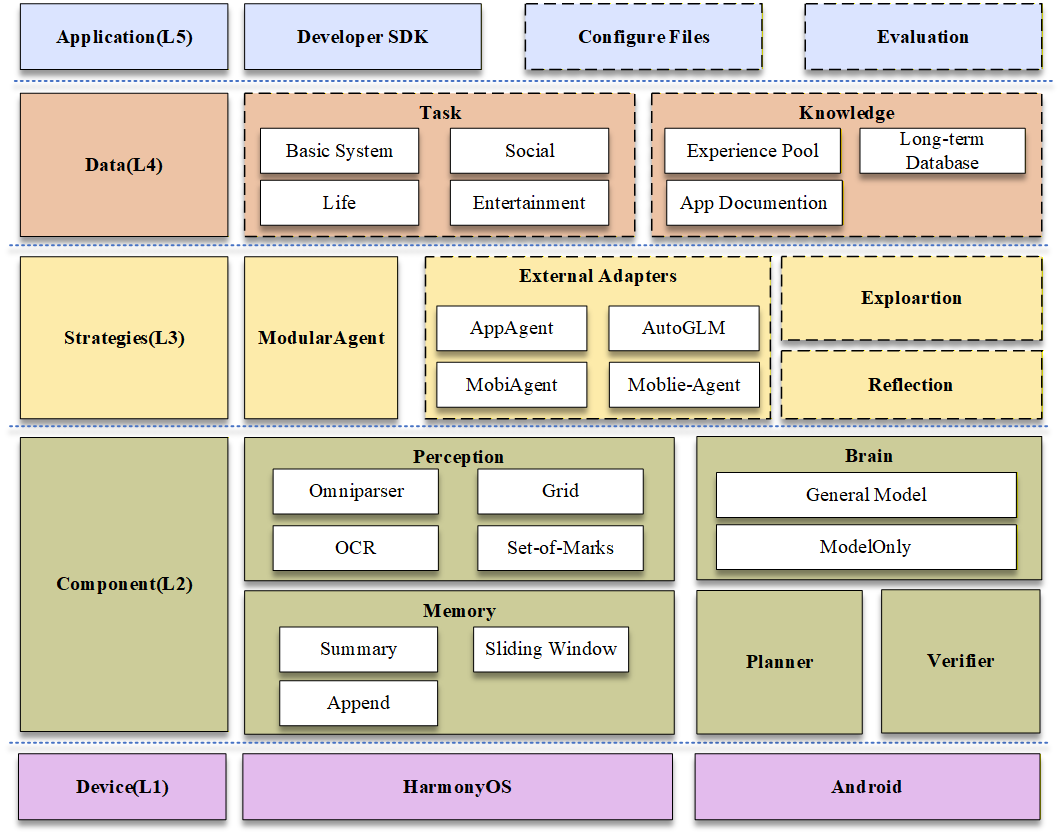
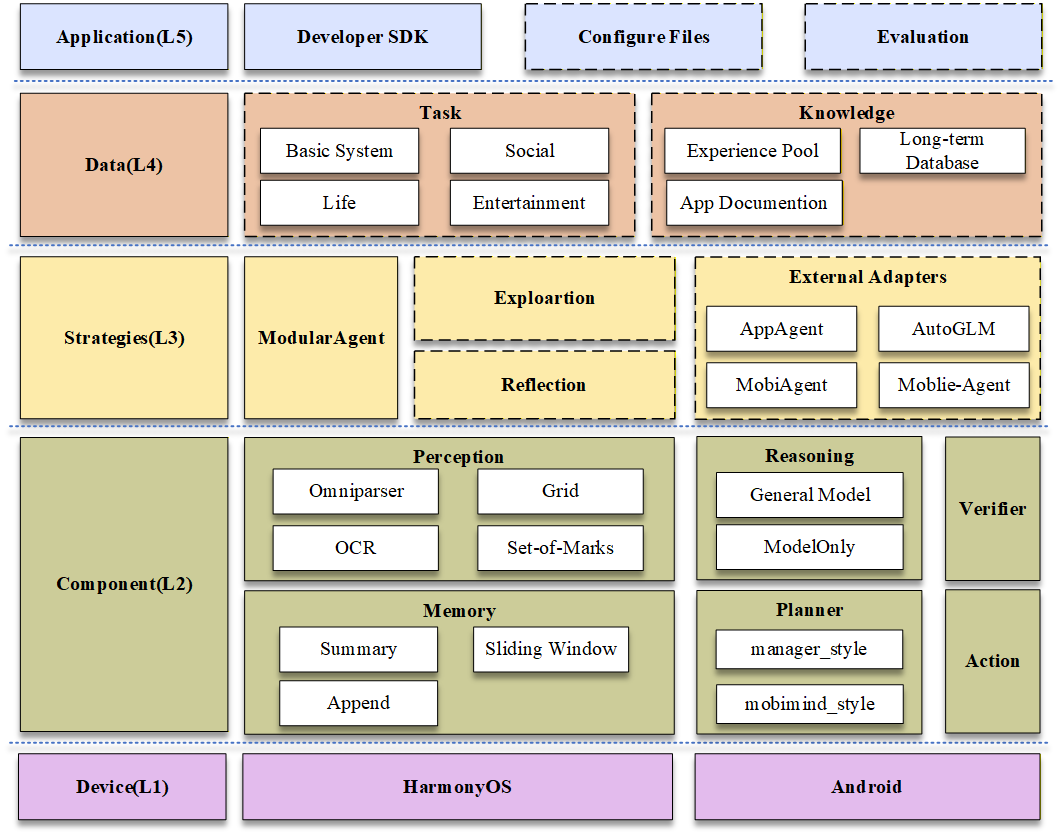
Update README.md

Changed region(s): [[0.3725, 0.2802, 0.9934, 0.903]]

diff --git a/README.md b/README.md
@@ -1,64 +1,63 @@
 # 知行
-随着多模态大模型（MLLM）的爆发，Mobile Agent 领域涌现了大量优秀工作。然而，现有的研究往往面临**开发碎片化**、**组件强耦合**以及**生态割裂**的三大挑战。为了复现一个 SOTA 算法，研究者往往需要重写大量底层代码；为了对比不同模型的效果，开发者缺乏一个统一的实验环境。
-
-**知行 (ZhiXing)** 旨在为此提供一个工业级的基础设施。我们不定义“什么是最好的 Agent”，我们定义 **“Agent 该如何被科学地构建与评测”**。
+知行是一个配置驱动的模块化 Mobile Agent 开发框架，旨在帮助研究者快速构建、测试和对比不同的 Mobile Agent 架构。它提供了一套涵盖感知、规划与执行的模块化组件库，并内置了开箱即用的预设配置，支持研究者在 Android 和 HarmonyOS 双端快速实例化多种架构风格的智能体。借助 UniMobile 及其提供的丰富资源，您可以在几分钟内轻松搭建并验证一个 Mobile Agent 原型，将您的算法创意迅速转化为真机上的可执行动作。
 
 > 我们的愿景：从一个灵活的开发框架出发，知行将逐步演进为涵盖 **自动化数据生成 (Data Generation)**、**标准化全链路评测 (Standardized Evaluation)** 的全栈智能体科研平台。
 
 
 
-## 🔥 核心特性
+## 🏗 架构与组件
 
-我们专注于提供最稳固的工程底座，让算法研究无后顾之忧。
+### 🌍 系统全景 (System Overview)
+
+知行采用五层分层架构，涵盖从底层设备接口到顶层应用配置的全栈能力。实线模块为 v0.1 已实装功能，虚线模块为规划中特性。
+
+![architecture](asset/architecture.png)
+
+*注：实线部分为 v0.1 已实装模块，虚线部分为 v1.0/v2.0 规划中模块。*
+
+### 🧠 设计原理 (Design Principles)
+
+参考 Agent 的定义，我们将我们将 Agent 建模为观察(Perception)+推理(Reasoning) + 记忆 (Memory) + 规划 (Planning) + 工具使用 (Action)四个部分，确保其具备类人的自主决策能力。除此之外，我们在组件部分还引入了独立的验证器 (Verifier)，将 Agent 从传统的“开环执行”升级为具备 自我修正 (Self-Correction) 能力的闭环系统。
+
+最终，移动端智能体被分为了5 个完全解耦的核心组件（对应架构图 L2 层），所有组件独立运行、各司其职、无强依赖关系。
+
+### ⚙ 运行机制
+
+智能体实例化后，将进入‘感知-推理-执行’的闭环运行。下图展示了组件间的数据流向与交互机制
+
+![run](asset/run.png)
+
+### 🧩 组件详解
+
+| 模块             | 职责与功能                                                   |
+| ---------------- | ------------------------------------------------------------ |
+| **👀 Perception** | 智能体的**眼睛**，完成移动端的多模态输入解析，唯一负责从手机端获取环境信息，是智能体与物理设备的唯一感知入口。 |
+| **🧠 Reasoning**  | 智能体的**决策中枢**，是整个智能体的核心模块，承接规划器的子任务序列，结合感知信息 + 记忆信息，输出每一步该执行什么具体操作的精准决策 |
+| **🗺 Planner**    | 智能体的**战略大脑**，可将用户的总目标拆解为可执行的、有序的、细粒度的子任务序列 |
+| **💾 Memory**     | 智能体的**完整记忆中枢**，一体化管理短期记忆 + 长期记忆双模式记忆能力，是智能体的状态存储核心 |
+| **🛡 Verifier**   | 智能体的**质检员**，用于校验上一步动作执行的结果是否正确、操作是否有效、是否达成预期目标，是智能体的自检核心 |
+| **🦾 Action **    | 智能体的**手脚**，唯一负责将大脑输出的决策，转化为手机端的真实操作，是整个智能体的核心落地组件。 |
+
+
+
+## 🔥 核心特性
 
 ### 1. 真正的架构级解耦
 
 我们解决了微调模型与通用模型接口不统一的工程难题。
 
-- **Universal Brain & Planner**：通过独创的 **Preset (预设)** 机制，我们将 Prompt 模板、模型调用与结果解析器（Parser）动态绑定。
-- **Model-Agnostic**：框架不绑定任何特定模型。你可以在同一个架构下，自由混用 **GPT-4o**（通用推理）与本地微调的 **Small Language Model**，无需修改核心代码。
+- **Universal Reasoning & Planner**：通过独创的 **Preset (预设)** 机制，我们将 Prompt 模板、模型调用与结果解析器（Parser）动态绑定。
+- **Model-Agnostic**：框架不绑定任何特定模型。你可以在同一个架构下，自由混用 GPT-4o（通用推理）与本地微调的 Model，无需修改核心代码。
 
 ### 2.  极致的配置驱动
 
-- **零代码组装**：通过 YAML 文件即可定义 Agent 的全貌。想要对比 "OmniParser vs Grid" 的感知差异？只需修改配置文件中的一行参数。
-- **环境隔离**：支持针对不同设备、不同任务加载不同的配置模板，极大提升了实验管理的效率。
+将 Agent 的构建过程从“写代码”进化为“写配置”
 
+- **零代码组装 (Zero-Code Assembly)**：通过 YAML 文件即可定义 Agent 的全貌。非开发人员也能通过简单的配置，像搭积木一样快速构建专属 Agent。
 
+- **组件热切换 (Hot-Swappable Components)**：专为科研实验设计。想要对比 OmniParser vs Grid 的感知差异？只需修改配置文件中的一行参数，即可实现控制变量的对比实验。
 
-## 🏗 顶层架构
-
-UniMobile 采用五层分层架构设计，以支持最大的灵活性和扩展性。
-
-![architecture.png](asset/architecture.png)
-
-### 层级详解
-
-- **L5 Application**: 配置加载器、开发者 SDK、Evaluation 入口。
-- **L4 Data & Eval**: *(Research Preview)* 负责参数化数据的供给与评测标准的定义。
-- **L3 Strategies**: 智能体策略层，负责调度组件（如 ModularAgent, AppAgentAdapter）。
-- **L2 Components**: 核心组件库，包含 Perception, Brain, Memory, Planner。
-- **L1 Device**: 硬件抽象层，统一管理 Harmony 和 Android Device。
-
-*注：实线部分为 v0.1 已实装模块，虚线部分为 v1.0/v2.0 规划中模块。*
-
-
-
-## 🧩 组件菜单
-
-v0.1 版本已内置以下核心组件，支持自由组合：
-
-| 模块 (Module)  | 预设 / 模式 (Preset/Mode) | 说明                                                         |
-| :------------- | :------------------------ | :----------------------------------------------------------- |
-| **Brain**      | `general_vlm`             | **通用视觉模型**：适配 GPT-4V/Claude，支持图文理解与 JSON 动作输出。 |
-| **Planner**    | `manager_style`           | **思维链规划**：生成分步计划，适合复杂逻辑任务。             |
-|                | `mobimind_style`          | **结构化规划**：直接输出目标 App 与意图，适合明确指令。      |
-| **Perception** | `omniparser`              | **语义解析**：生成结构化的 UI 元素列表（文本+坐标）。        |
-|                | `grid`                    | **网格定位**：经典的通用兜底方案，不依赖元素识别。           |
-|                | `set_of_marks`            | **视觉打标**：使用检测模型给 UI 元素打上数字标签，大幅提高点击准确率。 |
-| **Memory**     | `sliding_window`          | **滑动窗口**：保留最近 N 步操作，平衡 Token 消耗。           |
-|                | `summary_memory`          | **摘要记忆**：周期性压缩历史记录，保留长程关键信息。         |
-
-
+  
 
 ## 🚀 快速开始
 
@@ -77,17 +76,11 @@ cd UniMobile
 pip install -r requirements.txt
 ```
 
-### 2. 部署感知服务
-
-UniMobile 的默认视觉感知依赖于 **OmniParser**。你需要先启动 OmniParser 的模型服务。访问 [OmniParser 官方仓库](https://github.com/microsoft/OmniParser)，按照要求部署模型。
-
-> 💡 **Tip**: 如果你不想部署庞大的模型，可以使用 set_of_marks 或 grid 进行轻量级体验。
-
-### 3. 连接设备
+### 2. 连接设备
 
 知行 支持 Android 和 Harmony 双平台。
 
-#### **连接 Android 设备**
+#### 连接 Android 设备
 
 1. 开启手机的 **“开发者选项”** -> **“USB 调试”**。
 
@@ -99,7 +92,7 @@ UniMobile 的默认视觉感知依赖于 **OmniParser**。你需要先启动 Omn
    adb devices
    ```
 
-#### **连接 Harmony 设备**
+#### 连接 Harmony 设备
 
 1. 确保已安装鸿蒙 SDK 工具链 (hdc)。
 
@@ -111,57 +104,80 @@ UniMobile 的默认视觉感知依赖于 **OmniParser**。你需要先启动 Omn
    hdc list targets
    ```
 
-### 4. 配置文件
+### 3. 配置文件
 
-我们通过 YAML 定义 Agent。以下是一个 **"鸿蒙高精架构"** 的配置示例：
+我们通过 YAML 定义 Agent。以下是一个 **"经典 Android Agent"** 的配置示例：
 
 ```yaml
-# 设备配置
-device:
-  name: "harmony"
+# ====================================================
+# [案例] 构建一个基于视觉感知的经典 Android Agent
+# ====================================================
+
+# 1. 顶层定义：定义 Agent 的架构策略
+# 命名逻辑：[策略类型]_agent
+agent_type: "modular_agent"  # 目前支持模块化组装策略
 
 agent:
-  # 策略
-  strategy: "modular_agent"
-
-  params:
-    verbose: true
-
-  # 组件配置
   components:
-    # --- 感知器 ---
+    # 2. 执行组件：负责将指令落地到设备
+    # 命名逻辑：[平台]_action
+    action:
+      name: "android_action" # Android 平台执行器
+      params: {}
+
+    # 3. 感知组件：负责屏幕信息的解析
+    # 命名逻辑：[算法名]_perception
     perception:
-      - name: "omniparser"
-        params:
-          url: "http://your-server:your-port"
+      name: "grid_perception" # 网格坐标感知
+      params: {}
         
-    # --- 大脑 ---
-    brain:
-      name: "universal_brain"
+    # 4. 推理组件 (大脑)：负责单步决策
+    # 命名逻辑：universal_reasoning (通用推理) + preset (预设风格)
+    reasoning:
+      name: "universal_reasoning"
       params:
-        preset: "general_vlm"
-      llm:
-        name: "openai_llm"
-        params:
-          api_key: "your-api-key"
-          base_url: "your-base-url"         
-          model: "gpt-4o"
-    
-    # --- 记忆 ---
+        preset: "general_vlm_type" # 预设：通用视觉大模型风格
+      llm: ... # 模型配置
+
+    # 5. 记忆组件：负责上下文管理
+    # 命名逻辑：[策略名]_memory
     memory:
-      name: "sliding_window"
+      name: "sliding_window_memory" # 滑动窗口记忆策略
       params: { window_size: 6 }
 
-    # --- 规划器 ---
+    # 6. 规划组件：负责长程任务拆解
+    # 命名逻辑：universal_planner (通用规划) + preset (预设风格)
     planner:
       name: "universal_planner" 
       params:
-        preset: "manager_style"  
+        preset: "manager_style" # 预设：分步拆解风格 (Manager)
+      llm: ... # 模型配置
 ```
 
-### 5. 运行 Demo
+### 4. 现有组件清单
 
-为了展示 UniMobile 架构的灵活性，我们构建了两个截然不同的 Agent 变体。它们分别运行在 **Android** 和 **Harmony** 上，虽然执行相似的视频搜索任务，但其**内部架构完全不同**。
+v0.1 版本已内置以下核心组件，支持自由组合：
+
+| 模块 (Module)  | name (preset)                              | 说明                                                         |
+| :------------- | :----------------------------------------- | :----------------------------------------------------------- |
+| **Reasoning**  | `universal_reasoning` (`general_vlm_type`) | **视觉决策核心**：基于通用多模态大模型，具备直接理解屏幕截图并输出 JSON 格式原子动作的能力。 |
+| **Planner**    | `universal_planner` (`manager_style`)      | **分步规划策略**：将复杂用户指令拆解为 "Step-by-step" 的线性子目标序列，适用于长程复杂任务。 |
+|                | `universal_planner`(`mobimind_style`)      | **结构化路由策略**：可通过结合知识库数据，智能选择目标 App 并生成结构化的操作意图。 |
+| **Perception** | `omniparser_perception`                    | **语义解析**：利用 OmniParser 模型将屏幕截图转化为包含文本、类型和坐标的结构化元素列表。 |
+|                | `grid_perception`                          | **网格定位**：经典的通用兜底方案，不依赖元素识别。           |
+|                | `som_perception`                           | **视觉打标**：基于 Set-of-Marks (SoM) 技术，在 UI 元素上叠加数字标签，辅助模型进行高精度的 ID 索引操作。 |
+| **Memory**     | `sliding_window_memory`                    | **滑动窗口**：仅保留最近 N 步的历史操作上下文，在 Token 成本与上下文连续性之间取得平衡。 |
+|                | `summary_memory`                           | **摘要记忆**：对长程历史记录进行周期性压缩与总结，确保 Agent 在长期运行中不遗忘关键信息。 |
+| **Action**     | `android_action`                           | **安卓执行适配器**：封装 ADB 指令集，支持点击、滑动、输入等原子操作在 Android 设备上的落地。 |
+|                | `harmony_action`                           | **鸿蒙执行适配器**：封装 HDC 协议与鸿蒙原生控制接口，实现对 HarmonyOS NEXT 设备的自动化控制。 |
+
+
+
+## 🚀 运行 Demo：体验架构多样性
+
+为了验证知行项目的灵活性，我们构建了 两套完全不同的 Agent 架构，并测试了它们在 三个不同难度场景下的表现。
+
+### 🎬 实测场景 (Scenarios)
 
 **场景 A：经典架构 Agent (Android)**
 
@@ -193,6 +209,22 @@ python run.py --config configs/agent_harmony_advanced.yaml \
 
 
 https://github.com/user-attachments/assets/60b5da54-45f9-436a-b9db-a33abffcd276
+
+
+
+**场景 C：跨应用协作 Agent (HarmonyOS)**
+
+* **配置组合**：同场景 B (复用高精架构)
+
+* **特点**：展示了 Agent 在多 App 间的能力
+
+```yaml
+# 任务：在 Bilibili 搜索 DFS 算法并播放播放量最高的视频
+python run.py --config configs/agent_harmony_advanced.yaml \
+  --task "在华为商城中搜索蓝牙耳机，并将价格最高的一款耳机通过微信分享给小张""
+```
+
+
 
 
 
